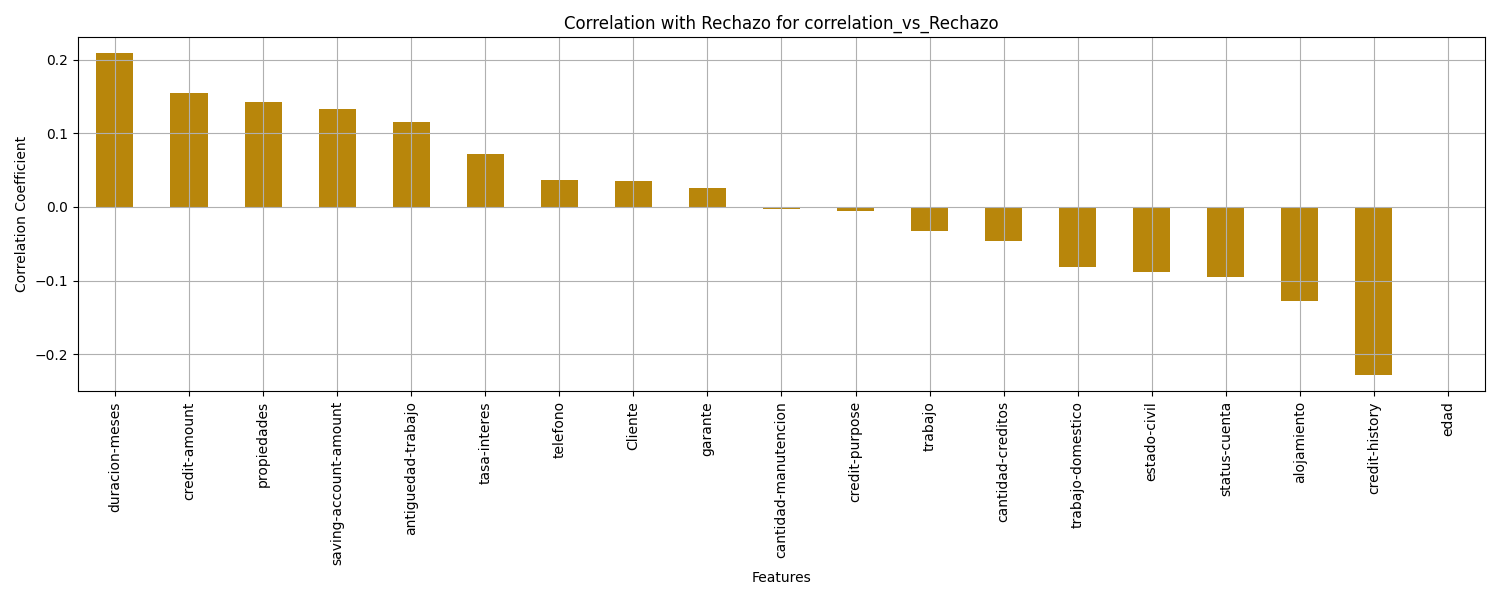
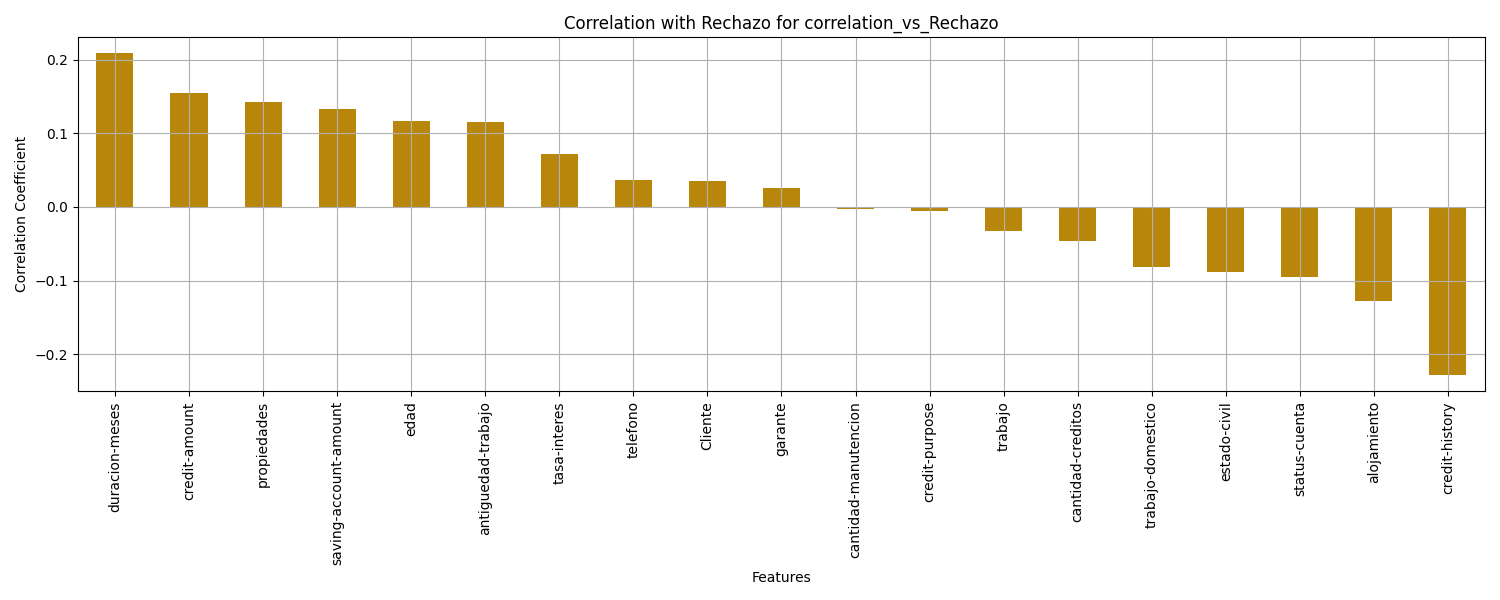
fix transformaciones

diff --git a/TP 9 CHURN secuenciales/transformaciones.py b/TP 9 CHURN secuenciales/transformaciones.py
@@ -42,7 +42,7 @@ def apply_transformations_complete(df):
         
         13: {
             "new_name": "edad",
-            "transform_func": lambda x: 1 if pd.notna(x) and x < 30 else 1
+            "transform_func": lambda x: 1 if pd.notna(x) and x < 30 else 0
         },
         
         14: {"new_name": "14", "mapping": {"A141": 141, "A142": 142, "A143": 143}},
